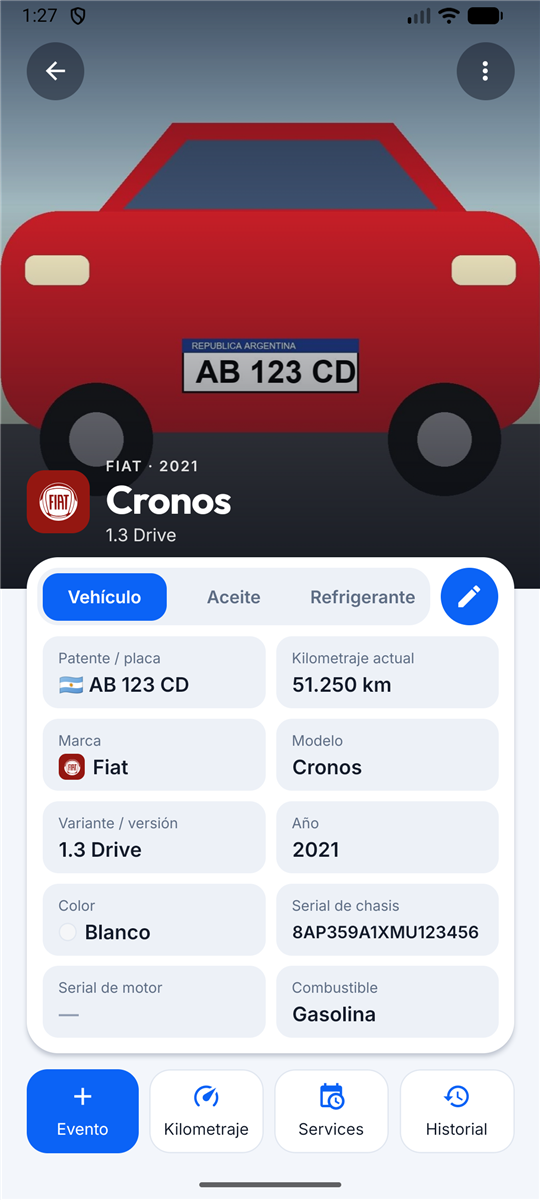
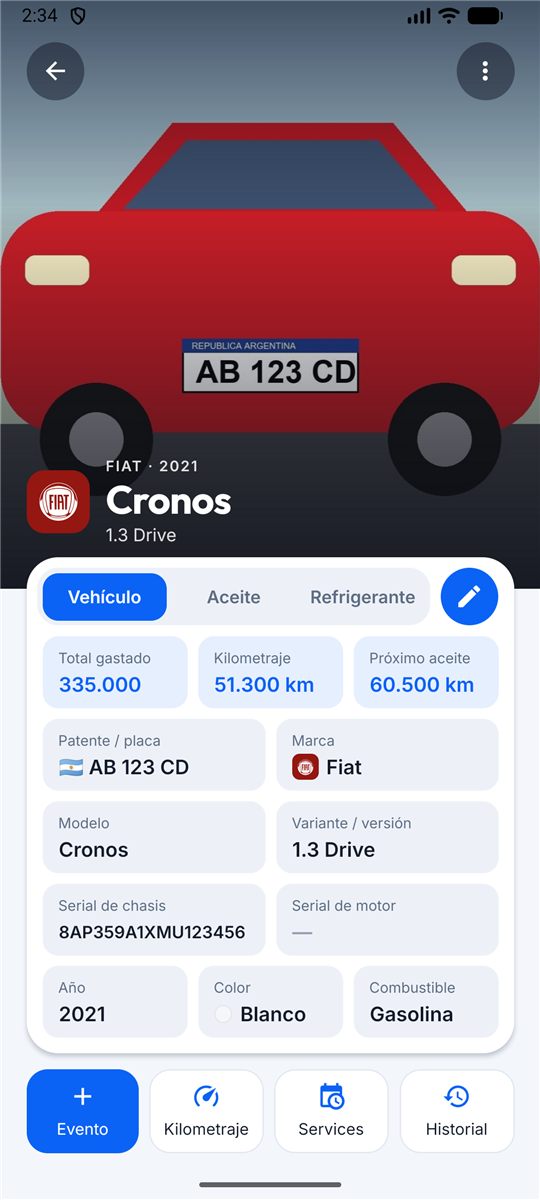
feat: total spent, odometer and next oil change on the vehicle tab
The Vehículo tab now opens with a highlighted row: total spent on the car,
current odometer and the km of the next oil change ("Aceite vencido" in red
when overdue; the date when the plan has no km interval). Año, Color and
Combustible share the last row, so the tab still fits without scrolling.

diff --git a/src/app/vehicle/[id].tsx b/src/app/vehicle/[id].tsx
@@ -24,6 +24,7 @@ import { formatPlate } from '@/domain/plate';
 import { resolveInterval, type Interval, type UpcomingItem } from '@/domain/schedule';
 import { COOLANT_BASES, coolantMix, fuelLabel, OIL_BASES } from '@/domain/vehicle-specs';
 import { useQuery } from '@/hooks/useQuery';
+import { formatDay } from '@/lib/dates';
 import { formatAmount, formatKm } from '@/lib/format';
 import { deletePhotoFiles } from '@/services/photos';
 import { shareVehicleReport } from '@/services/report';
@@ -181,7 +182,7 @@ export default function VehicleDetailScreen() {
           </View>
           <Animated.View key={tab} entering={FadeIn.duration(180)} style={{ height: TAB_HEIGHT, paddingHorizontal: spacing.sm, paddingBottom: spacing.sm }}>
             {tab === 'vehiculo' ? (
-              <VehicleTab v={v} km={snap.currentKm} />
+              <VehicleTab v={v} km={snap.currentKm} spentCents={total} nextOil={data.upcoming.items.find((i) => i.item === CORE_ITEM)} />
             ) : tab === 'aceite' ? (
               <OilTab v={v} plan={data.oilPlan} next={data.upcoming.items.find((i) => i.item === CORE_ITEM)} />
             ) : (
@@ -259,32 +260,38 @@ export default function VehicleDetailScreen() {
 
 /* --------------------------------- Tabs --------------------------------- */
 
-function VehicleTab({ v, km }: { v: Vehicle; km: number }) {
+function VehicleTab({ v, km, spentCents, nextOil }: { v: Vehicle; km: number; spentCents: number; nextOil?: UpcomingItem }) {
   const { colors } = useTheme();
+  const oil = nextOil?.due;
+  const oilTone = oil?.status === 'overdue' ? colors.danger : oil?.status === 'soon' ? colors.warning : colors.primary;
+  // the next oil change by km (what the odometer shows); by date when the plan has no km interval
+  const oilValue = oil ? (oil.dueKm !== null ? formatKm(oil.dueKm) : oil.dueDate ? formatDay(oil.dueDate) : null) : null;
   return (
     <View style={{ flex: 1, gap: spacing.xs }}>
       <Row>
+        <Cell label="Total gastado" value={formatAmount(spentCents)} accent={colors.primary} />
+        <Cell label="Kilometraje" value={formatKm(km)} accent={colors.primary} />
+        <Cell label={oil?.status === 'overdue' ? 'Aceite vencido' : 'Próximo aceite'} value={oilValue} accent={oilTone} />
+      </Row>
+      <Row>
         <Cell label="Patente / placa" value={v.plate ? `${flagEmoji(v.country)} ${formatPlate(v.plate, v.country)}` : null} />
-        <Cell label="Kilometraje actual" value={formatKm(km)} />
-      </Row>
-      <Row>
         <Cell label="Marca" value={v.brand} left={<BrandLogo brandId={v.brandId} brand={v.brand} size={20} />} />
+      </Row>
+      <Row>
         <Cell label="Modelo" value={v.model} />
-      </Row>
-      <Row>
         <Cell label="Variante / versión" value={v.variant} />
-        <Cell label="Año" value={v.year ? String(v.year) : null} />
       </Row>
       <Row>
+        <Cell label="Serial de chasis" value={v.vin} />
+        <Cell label="Serial de motor" value={v.engineNumber} />
+      </Row>
+      <Row>
+        <Cell label="Año" value={v.year ? String(v.year) : null} />
         <Cell
           label="Color"
           value={v.color}
           left={v.color ? <View style={{ width: 14, height: 14, borderRadius: 7, backgroundColor: v.colorHex ?? colors.textSubtle, borderWidth: 1, borderColor: colors.border }} /> : undefined}
         />
-        <Cell label="Serial de chasis" value={v.vin} />
-      </Row>
-      <Row>
-        <Cell label="Serial de motor" value={v.engineNumber} />
         <Cell label="Combustible" value={fuelLabel(v.fuel)} />
       </Row>
     </View>
@@ -385,11 +392,12 @@ function Row({ children }: { children: ReactNode }) {
   return <View style={{ flex: 1, flexDirection: 'row', gap: spacing.xs }}>{children}</View>;
 }
 
-function Cell({ label, value, left, big }: { label: string; value: string | null | undefined; left?: ReactNode; big?: boolean }) {
+/** A label / value box. `accent` highlights it (tinted background, value in that color). */
+function Cell({ label, value, left, big, accent }: { label: string; value: string | null | undefined; left?: ReactNode; big?: boolean; accent?: string }) {
   const { colors } = useTheme();
   return (
-    <View style={{ flex: 1, justifyContent: 'center', paddingHorizontal: spacing.sm, paddingVertical: 6, borderRadius: radius.sm, backgroundColor: colors.surfaceAlt }}>
-      <AppText variant="caption" tone="muted" numberOfLines={1} style={{ fontSize: 11 }}>
+    <View style={{ flex: 1, justifyContent: 'center', paddingHorizontal: spacing.sm, paddingVertical: 6, borderRadius: radius.sm, backgroundColor: accent ? accent + '1A' : colors.surfaceAlt }}>
+      <AppText variant="caption" tone="muted" numberOfLines={1} adjustsFontSizeToFit minimumFontScale={0.85} style={{ fontSize: 11 }}>
         {label}
       </AppText>
       <View style={{ flexDirection: 'row', alignItems: 'center', gap: 6 }}>
@@ -397,6 +405,7 @@ function Cell({ label, value, left, big }: { label: string; value: string | null
         <AppText
           variant={big ? 'number' : 'bodyStrong'}
           tone={value ? 'default' : 'subtle'}
+          color={value && accent ? accent : undefined}
           numberOfLines={1}
           adjustsFontSizeToFit
           minimumFontScale={0.75}

diff --git a/README.md b/README.md
@@ -41,7 +41,7 @@
 ### 🚗 Garage
 - Tarjetas grandes por auto: foto con **degradado diagonal**, marca, modelo, color, **patente estilo Mercosur** y **bandera del país**.
 - Resumen: vehículos, services que requieren atención y gastos del año.
-- Detalle por vehículo: kilometraje, uso promedio, próximos services con barra de progreso, ficha técnica e historial.
+- Detalle por vehículo: total gastado, kilometraje actual y próximo cambio de aceite a la vista, uso promedio, próximos services con barra de progreso, ficha técnica e historial.
 
 ### 🧭 Alta de vehículo (asistente de 4 pasos, sin scroll)
 1. **Tu auto** — foto + **marca → año → modelo → versión → color**, con el catálogo del mercado argentino: **88 marcas, unos 1.000 modelos y unas 11.500 versiones de 1997 a 2026**, tomados de las listas de la CCA ([detalle](docs/CATALOG.md)). Elegís marca y año y aparecen solo los modelos de ese año, y después sus versiones. «Otro modelo» permite escribirlo a mano si no está.

diff --git a/CHANGELOG.md b/CHANGELOG.md
@@ -24,7 +24,7 @@ Formato basado en [Keep a Changelog](https://keepachangelog.com/es-ES/1.1.0/). V
   - Se eligen primero la marca y el año. Después aparecen solo los modelos de ese año y las versiones de ese modelo en ese año.
   - «Otro modelo» es la única forma de escribir el modelo y la versión a mano.
   - Ver [docs/CATALOG.md](docs/CATALOG.md).
-- **Ficha del vehículo nueva**: foto arriba y un recuadro con pestañas (**Vehículo**, **Aceite**, **Refrigerante**) que se ve completo, sin scroll. Abajo hay accesos a **＋ Evento**, Kilometraje, Services e Historial.
+- **Ficha del vehículo nueva**: foto arriba y un recuadro con pestañas (**Vehículo**, **Aceite**, **Refrigerante**) que se ve completo, sin scroll. La pestaña Vehículo arranca con **total gastado, kilometraje actual y próximo cambio de aceite (en km)**. Abajo hay accesos a **＋ Evento**, Kilometraje, Services e Historial.
 - **Datos de aceite**:
   - tipo (mineral, semi-sintético o sintético);
   - cantidad;
